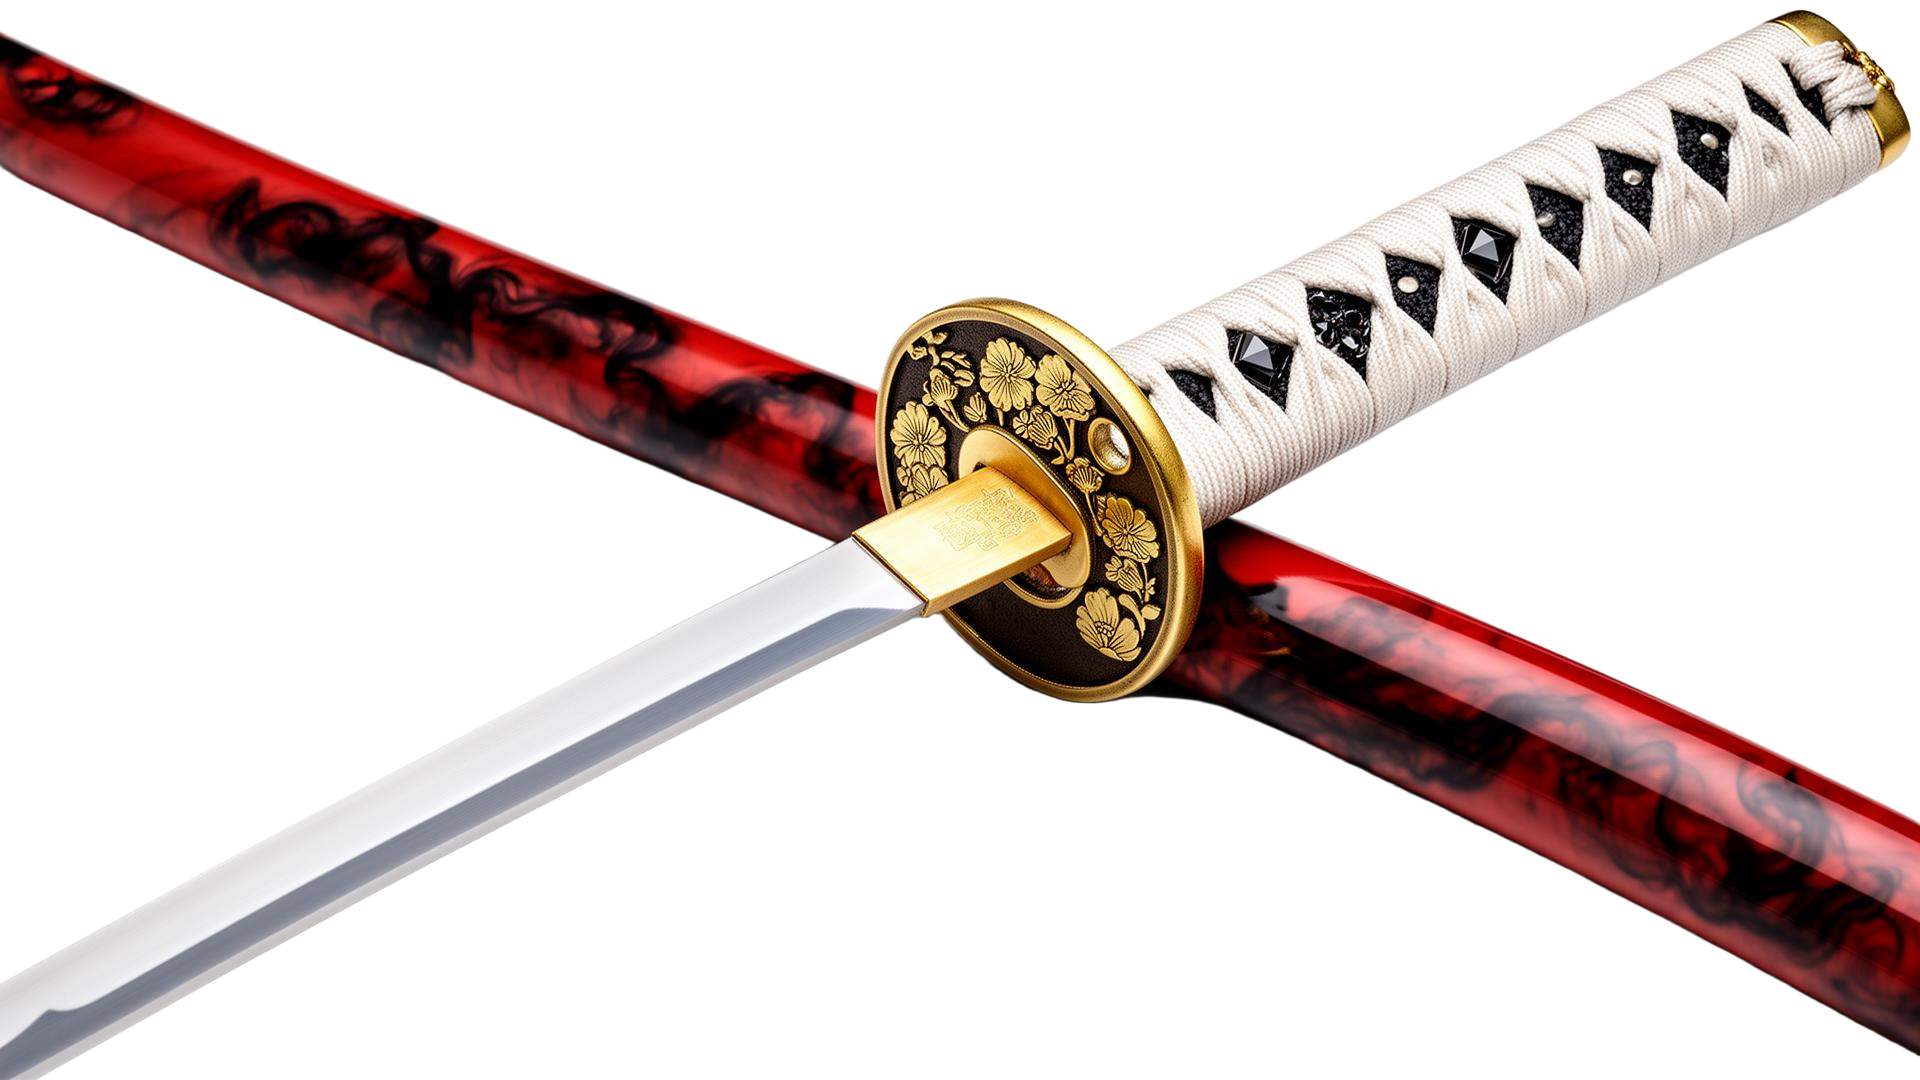
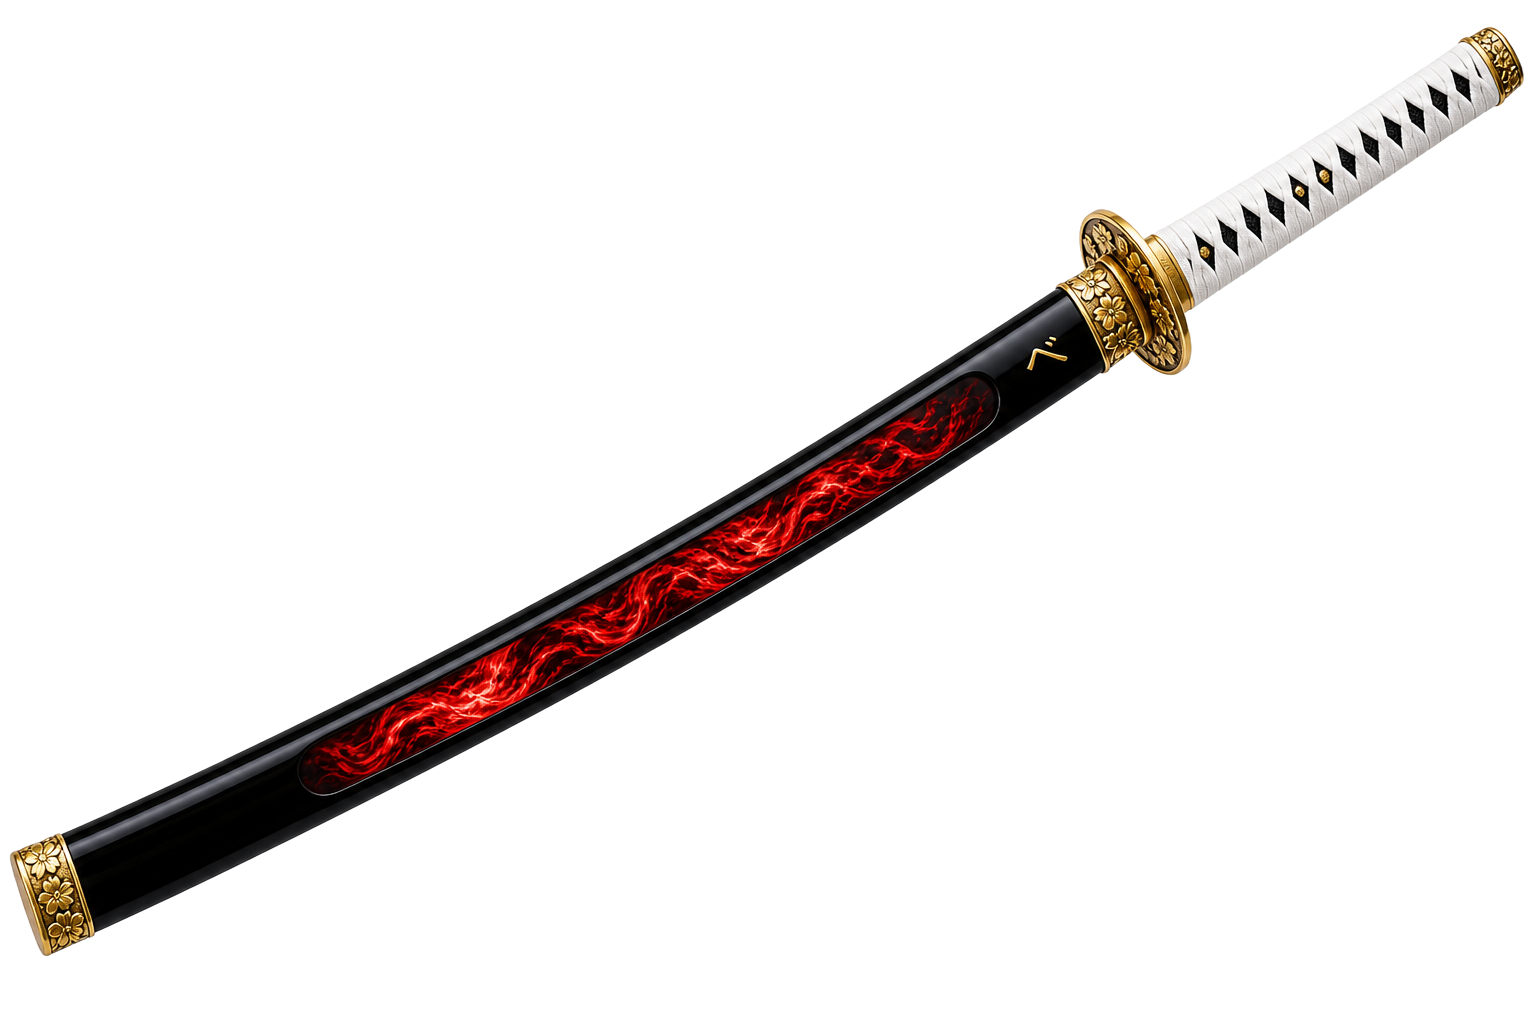
Changes

diff --git a/src/components/landing/sections/HeroSection.tsx b/src/components/landing/sections/HeroSection.tsx
@@ -3,7 +3,6 @@ import { useGSAP } from "@gsap/react";
 import gsap from "gsap";
 import katanaHero from "@/assets/landing/katana_hero.png";
 import branches from "@/assets/landing/branches_backdrop.png";
-import SlashText from "../SlashText";
 
 export default function HeroSection() {
   const ref = useRef<HTMLElement>(null);
@@ -11,13 +10,12 @@ export default function HeroSection() {
   useGSAP(
     () => {
       const st = { trigger: ref.current, start: "top top", end: "bottom top", scrub: true };
-      gsap.to(".hero-katana", { yPercent: -18, xPercent: 6, rotate: 2, ease: "none", scrollTrigger: st });
-      gsap.to(".hero-branches", { yPercent: -10, scale: 1.08, ease: "none", scrollTrigger: st });
-      gsap.to(".hero-flame", { scale: 1.25, opacity: 0.55, ease: "none", scrollTrigger: st });
+      gsap.to(".hero-katana", { yPercent: -12, xPercent: 4, rotate: 1, ease: "none", scrollTrigger: st });
+      gsap.to(".hero-branches", { yPercent: -6, scale: 1.05, ease: "none", scrollTrigger: st });
       gsap.fromTo(
         ".hero-flame",
-        { opacity: 0.7 },
-        { opacity: 1, duration: 1.6, ease: "sine.inOut", yoyo: true, repeat: -1 },
+        { opacity: 0.55 },
+        { opacity: 0.9, duration: 1.8, ease: "sine.inOut", yoyo: true, repeat: -1 },
       );
     },
     { scope: ref },
@@ -25,66 +23,50 @@ export default function HeroSection() {
 
   return (
     <section ref={ref} className="relative h-screen w-full overflow-hidden bg-black">
-      {/* ukiyo-e branches backdrop */}
+      {/* ukiyo-e branches backdrop — muted, circular mandala */}
       <img
         src={branches}
         alt=""
-        className="hero-branches pointer-events-none absolute inset-0 h-full w-full object-cover opacity-25"
+        className="hero-branches pointer-events-none absolute inset-0 h-full w-full object-cover opacity-70"
       />
 
-      {/* red flame core behind blade */}
+      {/* tight red flame glow — only behind saya cutaway, not full screen */}
       <div
-        className="hero-flame pointer-events-none absolute left-1/2 top-1/2 h-[60vh] w-[60vh] -translate-x-1/2 -translate-y-1/2 rounded-full"
+        className="hero-flame pointer-events-none absolute left-[42%] top-[58%] h-[32vh] w-[32vh] -translate-x-1/2 -translate-y-1/2 rounded-full"
         style={{
           background:
-            "radial-gradient(circle, rgba(255,58,42,0.55) 0%, rgba(255,58,42,0.15) 40%, transparent 70%)",
-          filter: "blur(40px)",
+            "radial-gradient(circle, rgba(255,40,28,0.45) 0%, rgba(255,40,28,0.12) 45%, transparent 72%)",
+          filter: "blur(28px)",
         }}
       />
 
-      {/* sheathed katana, diagonal */}
+      {/* sheathed katana — diagonal, blade lower-left, handle upper-right */}
       <img
         src={katanaHero}
-        alt="IMPERIUM katana"
-        className="hero-katana pointer-events-none absolute left-1/2 top-1/2 h-[110vh] w-auto max-w-none -translate-x-1/2 -translate-y-1/2"
-        style={{ transform: "translate(-50%, -50%) rotate(-22deg)" }}
+        alt="Sheathed katana"
+        className="hero-katana pointer-events-none absolute left-1/2 top-1/2 w-[125vw] max-w-none select-none"
+        style={{ transform: "translate(-50%, -50%) rotate(-18deg)" }}
       />
 
-      <div className="absolute inset-0 bg-gradient-to-b from-black/40 via-transparent to-black/70" />
-
-      {/* editorial display title */}
-      <div className="relative z-10 flex h-full items-start px-8 pt-28 md:pt-32">
-        <SlashText
-          text="Master"
-          start="top top"
-          end="top -20%"
-          className="font-sans text-[clamp(56px,11vw,180px)] font-medium leading-[0.92] tracking-[-0.03em] text-[#f1ece6]"
-        />
-      </div>
-      <div className="absolute left-8 top-[32%] z-10">
-        <h1 className="font-sans text-[clamp(56px,11vw,180px)] font-medium leading-[0.92] tracking-[-0.03em] text-[#f1ece6]">
-          Your<br />Skills
+      {/* editorial title — single block, left aligned */}
+      <div className="absolute left-8 top-28 z-10 flex items-end gap-6 md:left-12 md:top-32">
+        <h1 className="font-sans text-[clamp(56px,11vw,180px)] font-medium leading-[0.88] tracking-[-0.03em] text-[#f1ece6]">
+          Master<br />Your<br />Skills
         </h1>
+        <div className="hidden pb-4 font-sans text-[16px] leading-tight text-[#f1ece6]/75 md:block md:text-[18px]">
+          Built by<br />Fiddle.Digital
+        </div>
       </div>
 
-      <span className="absolute right-8 top-28 z-10 hidden font-mono text-[12px] tracking-[0.3em] text-[#f1ece6]/60 md:inline">
+      {/* version tag, top center-right */}
+      <span className="absolute left-1/2 top-28 z-10 hidden -translate-x-1/2 font-mono text-[12px] tracking-[0.3em] text-[#f1ece6]/55 md:inline">
         V_ 1.2.0
       </span>
 
-      {/* built by */}
-      <div className="absolute bottom-28 left-8 z-10 font-sans text-[24px] leading-none tracking-tight text-[#f1ece6] md:text-[32px]">
-        Built by<br /><span className="text-[#f1ece6]/60">IMPERIUM</span>
-      </div>
-
-      {/* skill hub / console card */}
-      <div className="absolute bottom-8 right-8 z-10 hidden h-[180px] w-[320px] rounded-2xl bg-white/5 ring-1 ring-white/15 backdrop-blur-md md:block">
-        <div className="flex items-center justify-between px-5 py-3 text-[11px] uppercase tracking-[0.2em] text-white/55">
-          <span>Skill Hub</span>
-          <span>● live</span>
-        </div>
-        <div className="px-5 pb-5 pt-2 text-[13px] leading-snug text-white/75">
-          Console ready. Import a resume to begin tuning your agent.
-        </div>
+      {/* Skill Hub card — bottom LEFT, empty rounded console */}
+      <div className="absolute bottom-10 left-8 z-10 hidden md:block md:left-12">
+        <p className="mb-3 font-sans text-[14px] text-[#f1ece6]/85">Skill Hub</p>
+        <div className="h-[220px] w-[360px] rounded-2xl bg-white/[0.03] ring-1 ring-white/15 backdrop-blur-sm" />
       </div>
     </section>
   );

diff --git a/.lovable/plan.md b/.lovable/plan.md
@@ -1,76 +1,61 @@
+## What I see vs. what we have (honest diff)
 
-## Final Reading of string-tune.fiddle.digital (corrected)
+**Reference katana** (image 1 + hero shot):
+- BLACK lacquered saya with a RED flame/marbling core showing through a cutaway window
+- WHITE ito-wrapped tsuka with BLACK diamond menuki spacing, gold fuchi/kashira
+- Brand kanji ベ on the saya near the koiguchi
+- Composition: sheathed katana enters from lower-left, runs diagonally up to the right, handle exits top-right corner
 
-The site is not a 3D camera tour and not a traditional marketing page. It behaves like an **interactive design publication** whose pages turn under a fixed UI chrome. Every correction you sent is folded into the description below.
+**Our `katana_hero.png`**: opposite — RED saya with BLACK smoke, and it shows the bare blade crossed with the saya (an unsheathing pose, not the sealed sheathed hero pose). Wrong colors, wrong pose.
 
-### Overall design language
-A single creative system runs end-to-end:
-- Japanese craftsmanship aesthetic (katana, saya, bonsai, bamboo, clouds, ukiyo-e tone)
-- Katana symbolism as the narrative spine
-- Developer-tooling metaphors (Console, Skill Hub, code chips, easing curves)
-- Editorial display typography at hero scale (not serif — large sans presented like a magazine cover)
-- Motion-graphics treatment of text (slash-blur reveals, ghost copies, scrub blur)
-- Technical interface overlays (HUD, mono micro-labels, version chips)
-- Scroll storytelling that crossfades layered artwork
+**Our `katana_horizontal.png`**: plain naked blade with a black-wrap tsuka. Fine as the "drawn blade" image for later sections, but not the hero.
 
-### Persistent chrome (HUD) — always visible
-While the artwork beneath changes, this UI stays mounted and updates continuously:
-- Top-left: logo + IMPERIUM© wordmark
-- Top-center: nav pills (info `i`, Dashboard, Console)
-- Top-right: scroll-progress percentage
-- Left rail (vertical mono): `• FPS: NN  • TOP: #### PX`
-- Bottom-right: companion sprite + dialogue bubble (Next / Skip)
-- Thin red progress hairline on key sticky stages
+**Reference hero background**: dark near-black canvas with a delicate, almost ukiyo-e ink-drawn tree forming a circular mandala silhouette behind the katana, tiny red blossoms dotted across it. No moon. Very muted, ~20% luminance.
 
-### Scene-by-scene (corrected)
-1. **0–6 s — Cold open.** Black canvas, centered brand glyph, corner crescent spinner. Cuts via a slash wipe into the hero.
-2. **6–10 s — Hero.** Sheathed katana diagonal, saya glows with a red flame core, dim ukiyo-e branches behind. Editorial display title `Master / Your / Skills` (large sans, magazine-cover scale). Skill Hub / Console placeholder card bottom-left. Companion bubble bottom-right.
-3. **10–16 s — Unsheathing.** Blade and saya start overlapped and drift apart on scroll. Word `Control` reveals via heavy horizontal motion-blur slash with ghost copies.
-4. **16–22 s — Keep Scrolling.** Two-stage slash-blur reveal of `Keep Scrolling`. Red hairline at top of the sticky stage. Companion line updates.
-5. **22–32 s — The Spirit Awakened (interstitial).** A short transitional bridge between the unsheathing sequence and the cloud narrative — naked blade above, empty saya below, blurred title between, master-portrait pixel card with dialogue in the lower right. Not a major standalone scene.
-6. **32–42 s — Cloud panorama.** Wide red/cream cloud band. The katana **glides** across with subtle parallax and scale shifts (restrained, not flying). Master Oji portrait card + bonsai pixel.
-7. **42–48 s — Warm wash / bamboo.** Cream-sand background, pixel bamboo, orange sun haze, transition into the dark monochrome compass.
-8. **48–54 s — And listen…** Scrub-blur typography, drifting red squares, bonsai silhouette.
-9. **54–58 s — Principles bento.** `Principles` wordmark + 9-cell magazine bento grid (hero portrait tile, spec tiles, easing curve, scroll smoothie tile, logo tile).
-10. **58–63 s — Compass + Clarity finale.** **Compass-like glyph cluster / radial information diagram** (not a wheel) with the central emblem and rotating audience labels. Compact letter-chip cluster, then `Code With Clarity / Native` numbered columns and footer CTA.
+**Our `branches_backdrop.png`**: bright pink cherry blossoms with a giant yellow moon — wrong era, wrong mood, wrong density, wrong shape.
 
-### Composition transitions
-There is no virtual camera. Section-to-section change is achieved with **layered motion, parallax, crossfades, and scroll choreography** — artwork layers transforming, never a camera moving through 3D.
+**Reference hero layout**:
+```
+[logo+®] [red-pill icon]  Master                V_ 1.2.0           [i] [Dev Guides] [Skill Hub]   0%
+                          Your
+                          Skills  Built by
+                                  Fiddle.Digital
 
----
+         Skill Hub
+         ┌─────────────┐                                  Hey there, wanderer! 🎮 Welcome to the
+         │             │   ← empty rounded card           realm of StringTune, where precision
+         │             │                                  meets mastery
+         └─────────────┘                                                                  [ Next ]
+                                                                                          🧍 AIKA
+```
 
-## Revised 40% → 100% Plan (existing files, plus the few additions already approved)
+**Our hero**: title split between SlashText("Master") and a separate h1("Your / Skills") — they desync; "Built by IMPERIUM" stacked vertically at bottom-left instead of inline; Skill Hub card is bottom-RIGHT (collides with companion); extra full-bleed black gradient overlay washes out the backdrop.
 
-Scope: edit only existing landing files, plus 4 new assets, 1 helper, 1 interstitial (already approved earlier as "And listen"). No new sections beyond what was approved.
+## Plan (focus: hero only, surgical)
 
-### New assets (generated)
-- `src/assets/landing/loader_glyph.png` — cold-open brand glyph
-- `src/assets/landing/branches_backdrop.png` — dim ukiyo-e branches for hero
-- `src/assets/landing/bento_red_portrait.jpg` — bento hero tile
-- `src/assets/landing/cloud_band_wide.jpg` — wide red/cream cloud panorama
+### 1. Regenerate two assets (premium quality, transparent where needed)
 
-### New shared helpers
-- `src/components/landing/SlashText.tsx` — shared slash-blur reveal used by Hero, KeepScrolling, Awakening, AndListen.
-- `src/components/landing/sections/AndListenSection.tsx` — cream interstitial.
-- `src/components/landing/ColdOpen.tsx` — 5 s loader → slash-cut into hero, mounted from `LandingShell`.
+- `src/assets/landing/katana_hero.png` — sheathed katana, transparent PNG. Prompt locked to: black lacquered saya, red flame/marble core visible through a cutaway window mid-saya, white cotton ito-wrap on tsuka with black diamond menuki, gold tsuba with floral relief, kanji ベ on saya. Diagonal pose, blade pointing lower-left, handle upper-right.
+- `src/assets/landing/branches_backdrop.png` — dark muted ink-painted bare tree branches forming a soft circular mandala, sparse tiny red blossoms, near-black background, subtle paper grain. No moon. Premium tier.
 
-### Edits to existing files (no rewrites of unrelated logic)
-- `LandingShell.tsx` — mount `ColdOpen` and `AndListenSection` in the section order.
-- `HeroSection.tsx` — wordmark `Master / Your / Skills`, layered composition (branches backdrop + saya with red flame core + sheathed blade diagonal), Skill Hub / Console placeholder card, companion bubble alignment.
-- `KeepScrollingSection.tsx` — unsheathe choreography (blade + saya start overlapped, drift apart), shared `SlashText`, two-stage reveal, top red hairline.
-- `AwakeningSection.tsx` — restructure as **interstitial**: naked blade top, empty saya bottom, slash-blur title centered, master-portrait dialogue lower-right. Smaller vertical footprint than other sections.
-- `BambooSection.tsx` — cream wash, pixel bamboo, orange sun haze, transition into compass.
-- `CompassSection.tsx` — dark monochrome compass beat.
-- `BentoSection.tsx` — true 9-cell magazine bento grid using `bento_red_portrait.jpg` + spec/easing/scroll/logo tiles.
-- `AudienceWheelSection.tsx` — rename intent only in copy/labels; render as **compass-like glyph cluster / radial information diagram** (central emblem + rotating audience labels). No new file, no route change.
-- `ClaritySection.tsx` — letter-chip cluster + `Code With Clarity / Native` numbered columns.
-- `TopChrome.tsx` — confirm logo + pills + info chip + scroll % stay mounted across all sections.
-- `Companion.tsx` — sprite swaps and line updates aligned to new section progress thresholds.
-- `chrome/SideTicker.tsx` — confirm `FPS` + `TOP: #### PX` rail visible from cold open through footer.
+### 2. Rewrite `HeroSection.tsx` to match the reference
 
-### Out of scope
-- No router, auth, server-function, or schema changes.
-- No new dependencies beyond `lenis` + `gsap` + `@gsap/react` (already installed).
-- No additional sections beyond the ones listed above.
+- Single `<h1>` with three lines `Master / Your / Skills`, left-aligned, top-left at `top-28 left-8`, tight `leading-[0.88]`, weight 500, tracking `-0.03em`, color `#f1ece6`.
+- Inline `Built by\nFiddle.Digital` as a small block beside the "Skills" line (flex row, items-end), small sans `text-[18px]` muted `text-white/70`.
+- Remove the `<SlashText text="Master">` — it desyncs with the static lines; the hero title should be calm, not slash-blurred (reference is static).
+- Move Skill Hub card to bottom-LEFT (`bottom-8 left-8`), keep it as an empty rounded card with just the "Skill Hub" label top-left inside it.
+- Remove the heavy `bg-gradient-to-b from-black/40 ... to-black/70` overlay so the backdrop reads.
+- Reduce the red flame glow radius and opacity (currently bleeds across the whole canvas; reference has a tight glow only inside the saya cutaway, so push opacity to ~0.25 and shrink to 35vh).
+- Add subtle paper grain via existing CSS; keep `V_ 1.2.0` top-center-right as already placed.
+- Companion (`AIKA`) stays bottom-right — already correct.
 
-Approve and I will implement in one pass.
+### 3. No changes to other sections this turn
+
+The user explicitly asked to focus on starting / hero / katana. KeepScrolling, Awakening, FeatureSword, Bento, etc. stay as-is this pass.
+
+### Files touched
+- `src/assets/landing/katana_hero.png` (regenerate)
+- `src/assets/landing/branches_backdrop.png` (regenerate)
+- `src/components/landing/sections/HeroSection.tsx` (rewrite layout)
+
+No new dependencies. No backend changes.
